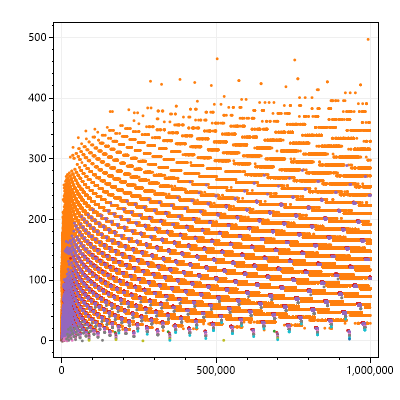
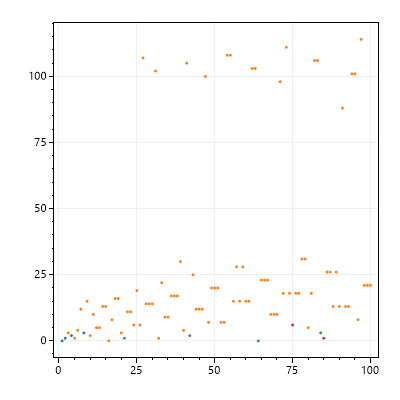
updating visuals for 2023 summer

diff --git a/2023/Summer/DataAnalysis/experimental_data_compression/Program.cs b/2023/Summer/DataAnalysis/experimental_data_compression/Program.cs
@@ -1,7 +1,7 @@
 string path = "2023/Summer/DataAnalysis/experimental_data_compression/resources/";
 
 int[] dataDistribution = new int[]{3, 3, 2};
-Module<long[]> readerModule = new CollatzConjectureModule<long[]>(1000000);
+Module<long[]> readerModule = new CollatzConjectureModule<long[]>(100);
 GraphingController graphingModule = new GraphingController(path + "plot.png");
 
 EncoderController controller = new(dataDistribution, path + "output.png", readerModule, graphingModule);

diff --git a/2023/Spring/Deployable/spring2023.md b/2023/Spring/Deployable/spring2023.md
@@ -7,12 +7,13 @@ My implementation of boids (https://en.wikipedia.org/wiki/Boids)
 Status: Functional with one major bug (atan calculation is off -> why they sort of peel from the flock when facing at certain angles)
 <details>
     <summary>Controls</summary>
-    
-    To run: python 2023/Spring/Simulations/boids/main.py  
-    Sim:
-     * N - Add a single boid per tick
-     * M - Add a chunk of boids per tick
-
+    <p>
+        &emsp;To run: python 2023/Spring/Simulations/boids/main.py<br>
+        &emsp;In simulation:<ul><ul>
+            <li>N - Add a single boid per tick</li>
+            <li>M - Add a chunk of boids per tick</li>
+        </ul></ul>
+    </p>
 </details>
 ![](boids.gif)
 
@@ -22,18 +23,19 @@ Status: Functional with a few bugs (movement normalization, occlusion clipping)
 
 <details>
     <summary>Controls</summary>
-    
-    To run: python 2023/Spring/Simulations/renderer/main.py  
-    In GUI:  
-    * RClick - Enter cube  
-    * LClick - Remove cube
-    * Shift/Ctrl - Layer up/down  
-    * Escape - Exit GUI to simulation  
-    In simulation:  
-    * Up/Down - Rotate dynamic x  
-    * Right/Left - Rotate dynamic z  
-    * W/S - Move forward/backward  
-    * A/D - Rotate perspective around the orgin?  
-
+    <p>
+        &emsp;To run: python 2023/Spring/Simulations/renderer/main.py<br>
+        &emsp;In GUI:<ul><ul>
+            <li>RClick - Enter cube</li>
+            <li>LClick - Remove cube</li>
+            <li>Shift/Ctrl - Layer up/down</li>
+            <li>Escape - Exit GUI to simulation</li>
+        &emsp;<ul><ul>In simulation:<ul><ul>
+            <li>Up/Down - Rotate dynamic x</li>
+            <li>Right/Left - Rotate dynamic z</li>
+            <li>W/S - Move forward/backward</li>
+            <li>A/D - Rotate perspective around the orgin?</li>
+        <ul><ul>
+    </p>
 </details>
 ![](renderer.gif)

diff --git a/2023/Summer/Deployable/summer2023.md b/2023/Summer/Deployable/summer2023.md
@@ -8,7 +8,7 @@ A data transformer I made as an experiment that takes a large amount of input da
 Status: One single bug (*ahem* feature): Image size hardcapping seems to be broken, so it is softcapped by processing time instead. Please do not try to do 1E7+ entries, as that image's size is >10MB, and I don't want your computer to hate you
 
 To Run: dotnet run --project ./2023/Summer/DataAnalysis/experimental_data_compression/experimental_data_compression.csproj
-![](dataCompression.png)
+![](dataCompression.gif)
 
 ##
 please remove when done
